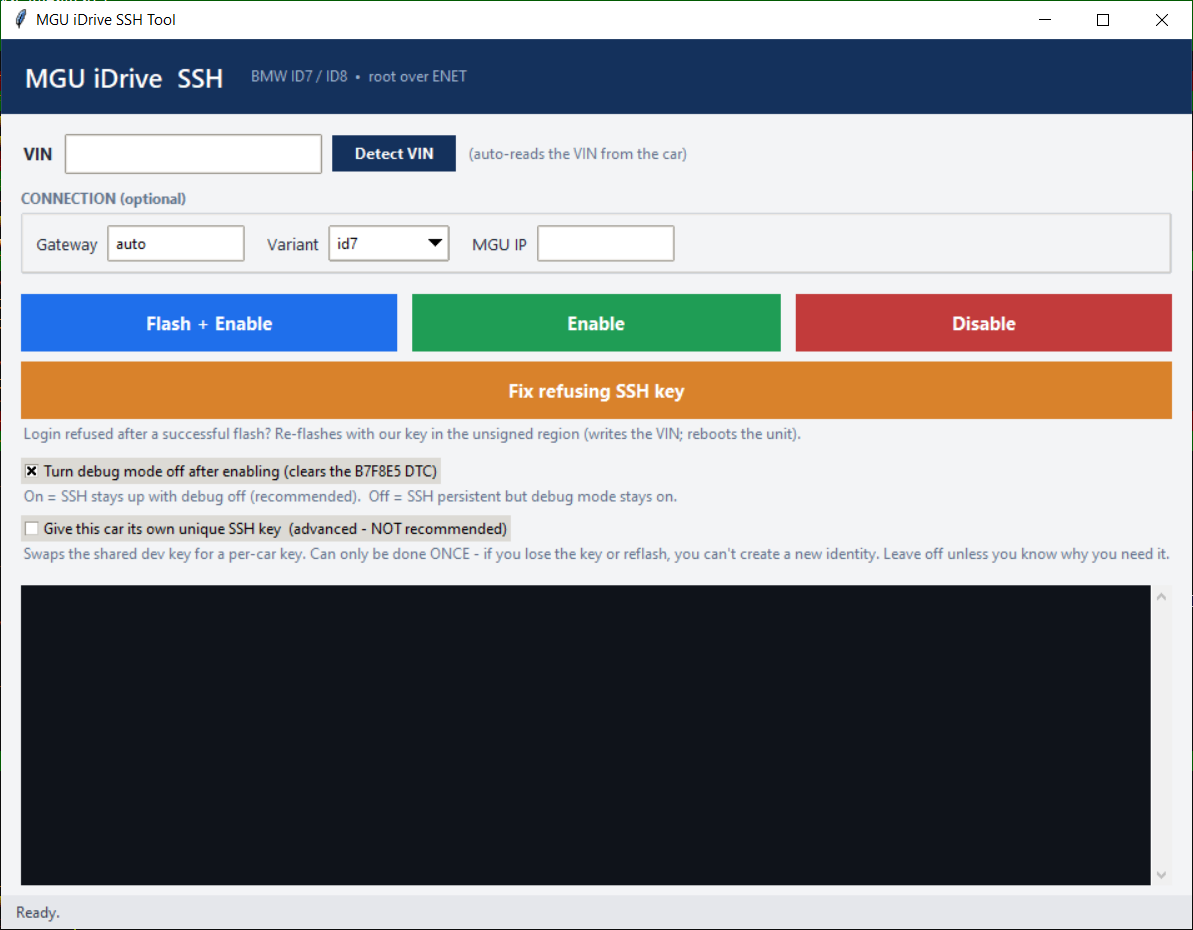
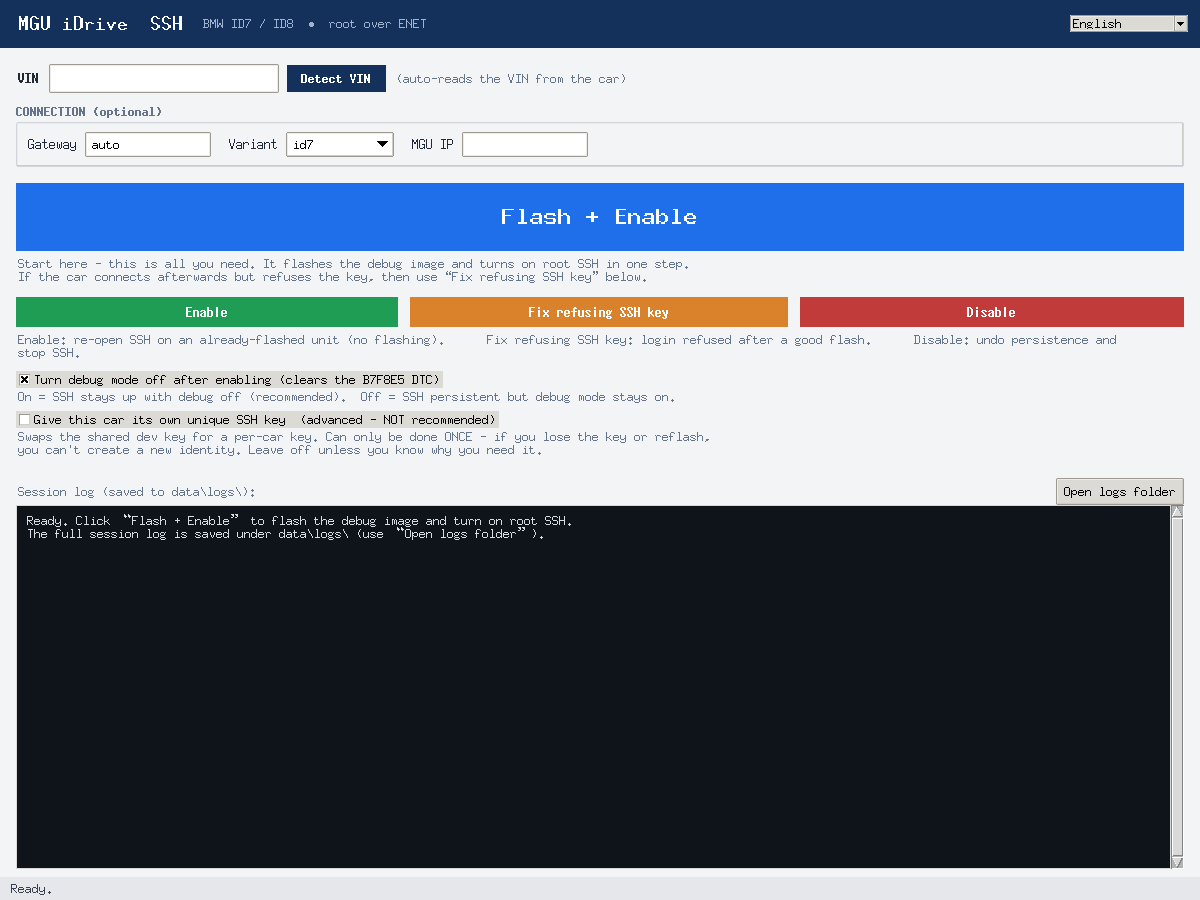
GUI: make Flash + Enable the primary button; smaller secondary actions
Restructure the action buttons into a clear hierarchy: a large full-width
'Flash + Enable' hero (the one-click path most people need), with Enable,
Fix refusing SSH key, and Disable as smaller buttons beneath it. Add copy
explaining that Flash + Enable is all you need, and to use Fix refusing SSH
key only if the car connects but refuses the key. Refresh the screenshot.

diff --git a/gui.py b/gui.py
@@ -132,6 +132,23 @@ class App:
         button("Green.TButton", GREEN, "#17824a")
         button("Red.TButton", RED, "#a93030")
         button("Amber.TButton", AMBER, "#b46a1f")
+
+        # Hero: the one button most people ever need - big and unmissable.
+        st.configure("Hero.TButton", background=ACCENT, foreground="#ffffff",
+                     font=("Segoe UI", 16, "bold"), padding=(16, 22),
+                     borderwidth=0, focuscolor=ACCENT)
+        st.map("Hero.TButton", background=[("active", "#1a5fd0"), ("disabled", "#9aa4b2")])
+
+        # Smaller secondary buttons that sit under the hero.
+        def small_button(name, bg, active):
+            st.configure(name, background=bg, foreground="#ffffff",
+                         font=("Segoe UI", 10, "bold"), padding=(8, 7),
+                         borderwidth=0, focuscolor=bg)
+            st.map(name, background=[("active", active), ("disabled", "#9aa4b2")])
+
+        small_button("GreenS.TButton", GREEN, "#17824a")
+        small_button("RedS.TButton", RED, "#a93030")
+        small_button("AmberS.TButton", AMBER, "#b46a1f")
         st.configure("Detect.TButton", background=HEADER, foreground="#ffffff",
                      font=("Segoe UI", 9, "bold"), padding=(10, 6), borderwidth=0)
         st.map("Detect.TButton", background=[("active", "#1d4273"), ("disabled", "#9aa4b2")])
@@ -176,26 +193,31 @@ class App:
         self._label(ttk.Label, adv, "MGU IP").grid(row=0, column=4, sticky="w", padx=(16, 6))
         ttk.Entry(adv, textvariable=self.mgu_ip, width=16).grid(row=0, column=5, sticky="w")
 
-        # the three actions
-        actions = ttk.Frame(body)
-        actions.pack(fill="x", pady=(16, 0))
-        actions.columnconfigure((0, 1, 2), weight=1, uniform="a")
-        self.btn_flash = self._label(ttk.Button, actions, "Flash + Enable", style="Primary.TButton", command=self.do_flash)
-        self.btn_enable = self._label(ttk.Button, actions, "Enable", style="Green.TButton", command=self.do_enable)
-        self.btn_disable = self._label(ttk.Button, actions, "Disable", style="Red.TButton", command=self.do_disable)
-        self.btn_flash.grid(row=0, column=0, sticky="ew", padx=(0, 6))
-        self.btn_enable.grid(row=0, column=1, sticky="ew", padx=6)
-        self.btn_disable.grid(row=0, column=2, sticky="ew", padx=(6, 0))
+        # Primary one-click action - this is all most people ever need.
+        hero = ttk.Frame(body)
+        hero.pack(fill="x", pady=(16, 0))
+        self.btn_flash = self._label(ttk.Button, hero, "Flash + Enable", style="Hero.TButton", command=self.do_flash)
+        self.btn_flash.pack(fill="x")
+        self._label(ttk.Label, hero,
+                  "Start here - this is all you need. It flashes the debug image and turns on root SSH in one step.\n"
+                  "If the car connects afterwards but refuses the key, then use “Fix refusing SSH key” below.",
+                  style="Hint.TLabel", justify="left", wraplength=1100).pack(anchor="w", pady=(4, 0))
 
-        # repair action (issue #2): re-flash carrying our root key in the one
-        # unsigned region, for units that enroll + open port 22 but still refuse
-        # login because their stock authorized_keys.root holds a different key.
-        fix = ttk.Frame(body)
-        fix.pack(fill="x", pady=(8, 0))
-        self.btn_fix = ttk.Button(fix, text="Fix refusing SSH key", style="Amber.TButton", command=self.do_fix_key)
-        self.btn_fix.pack(fill="x")
-        ttk.Label(fix, text="Login refused after a successful flash? Re-flashes with our key in the unsigned region (writes the VIN; reboots the unit).",
-                  style="Hint.TLabel").pack(anchor="w", pady=(2, 0))
+        # Secondary actions (smaller), only needed in specific cases.
+        actions = ttk.Frame(body)
+        actions.pack(fill="x", pady=(12, 0))
+        actions.columnconfigure((0, 1, 2), weight=1, uniform="a")
+        self.btn_enable = self._label(ttk.Button, actions, "Enable", style="GreenS.TButton", command=self.do_enable)
+        self.btn_fix = self._label(ttk.Button, actions, "Fix refusing SSH key", style="AmberS.TButton", command=self.do_fix_key)
+        self.btn_disable = self._label(ttk.Button, actions, "Disable", style="RedS.TButton", command=self.do_disable)
+        self.btn_enable.grid(row=0, column=0, sticky="ew", padx=(0, 6))
+        self.btn_fix.grid(row=0, column=1, sticky="ew", padx=6)
+        self.btn_disable.grid(row=0, column=2, sticky="ew", padx=(6, 0))
+        self._label(ttk.Label, actions,
+                  "Enable: re-open SSH on an already-flashed unit (no flashing).      "
+                  "Fix refusing SSH key: login refused after a good flash.      "
+                  "Disable: undo persistence and stop SSH.",
+                  style="Hint.TLabel", justify="left", wraplength=1100).grid(row=1, column=0, columnspan=3, sticky="w", pady=(4, 0))
 
         opt = ttk.Frame(body)
         opt.pack(fill="x", pady=(10, 0))
